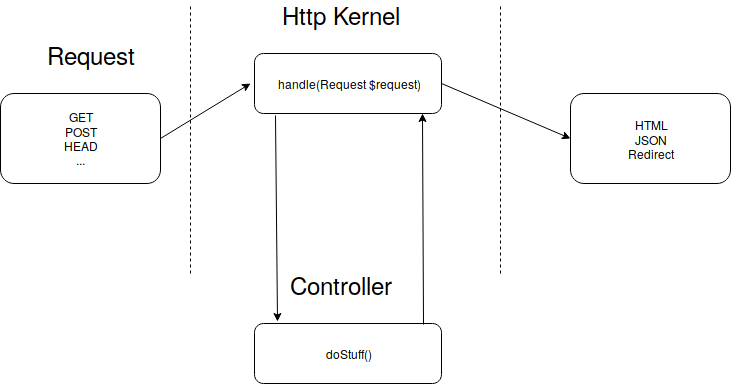
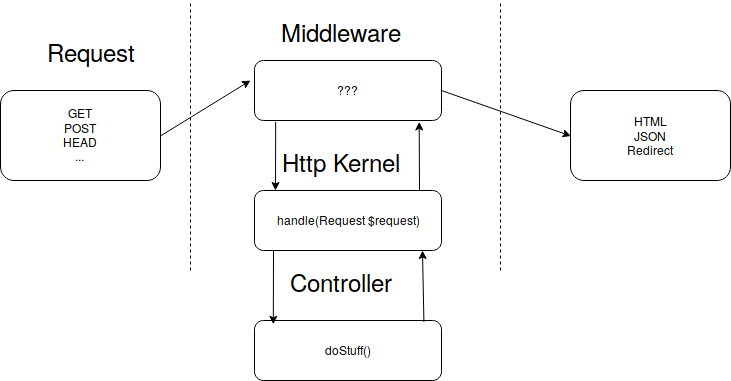
Some meat

diff --git a/caching/index.html b/caching/index.html
@@ -65,15 +65,42 @@
     </ul>
   </section>
 
+    <section>
+        <h2>Default setup</h2>
+        <ul>
+            <li>Internal page cache</li>
+            <li>Internal dynamic page cache</li>
+            <li class="fragment highlight-red">Beware: devel module</li>
+            <li class="fragment highlight-red">Beware: development.services.yml </li>
+        </ul>
+        <aside class="notes"><pre>
+            We will use 2 core modules that are enabled by default in Drupal 8 core: internal page cache and internal dynamic page cache.
+            Although default caching settings of Drupal 8 core are performance-oriented, BLT tries to autodetect local environment,
+            and disable some performance-related features like render cache, enable twig debugging and so on.
+            Default services.yml coming with Drupal core is in general good source of information about what parameters of core can be tweaked.
+    </pre></aside>
+
+    </section>
+
   <section>
       <h2>Request life cycle</h2>
       <img src="media/request.png" alt="Request" />
       <aside class="notes"><pre>
+          Let's skip at the moment everything that happens before request arrives to Http kernel - we will return to this soon.
           DrupalKernel gets Request object as a parameter
           From request, kernel finds appropriate controller
           Controller can return either response object, or renderable array.
+          Http kernel always returns response object - that can be cached by middleware
     </pre></aside>
   </section>
+
+    <section>
+        <h2>Cache types</h2>
+        <ul>
+            <li>Response cache</li>
+            <li>Render cache</li>
+        </ul>
+    </section>
 
     <section>
         <img src="media/user_controller_response.png" alt="User page response" />
@@ -94,39 +121,25 @@
             <li>Tags: dependencies on data managed by Drupal, like entities & configuration</li>
             <li>Contexts: variations, i.e. time zone, language preferences, user agent</li>
             <li>max-age</li>
+        </ul>
+
+        <aside class="notes"><pre>
+            For complex pages that contain elements that are built and rendered independently, caching metadata is bubbled,
+            i.e. is aggregated from the low-level items to top-level, so fully rendered page has information about all tags and contexts of its components
+        </pre></aside>
     </section>
 
     <section>
-      <h2>Cache types</h2>
-
-      <ul>
-          <li>Response cache</li>
-          <li>Fragment (render) caches</li>
-      </ul>
-  </section>
+        <h2>Request revisited</h2>
+        <img src="media/request_middleware.png" alt="Request" />
+    </section>
 
     <section>
-        <h2>        - Caceh types in Drupal: page cache and render cache.
+        <h2>Who said this can happen only inside Drupal? </h2>
 
-            -
-
-            - Default cache settings and how to change them
-
-            - using external caches -
-
-            - why we choose varnish
-
-            - Processing of request by Varnish. Main built-in functions. Types of response: pipe, pass, synth
-
-            - Processing of request by Drupal. Cacheable and non-cacheable responses. Render cache.
-
-
-            - Invalidating cache items. Communication between Drupal and Varnish. What modules are needed and how to configure them.
-
-            - Typical setup: links to vcl, enabled modules etc.
-            - (if we have time)  Beyond basics: caching for authenticated users. Dynamic page cache, BigPipe and ESI. Lazy builders.
-            - Q&A + useful links
-        </h2>
+        <aside class="notes"><pre>
+            Here I'm passing presenter role to Rumen
+        </pre></aside>
     </section>
 
     <section>
